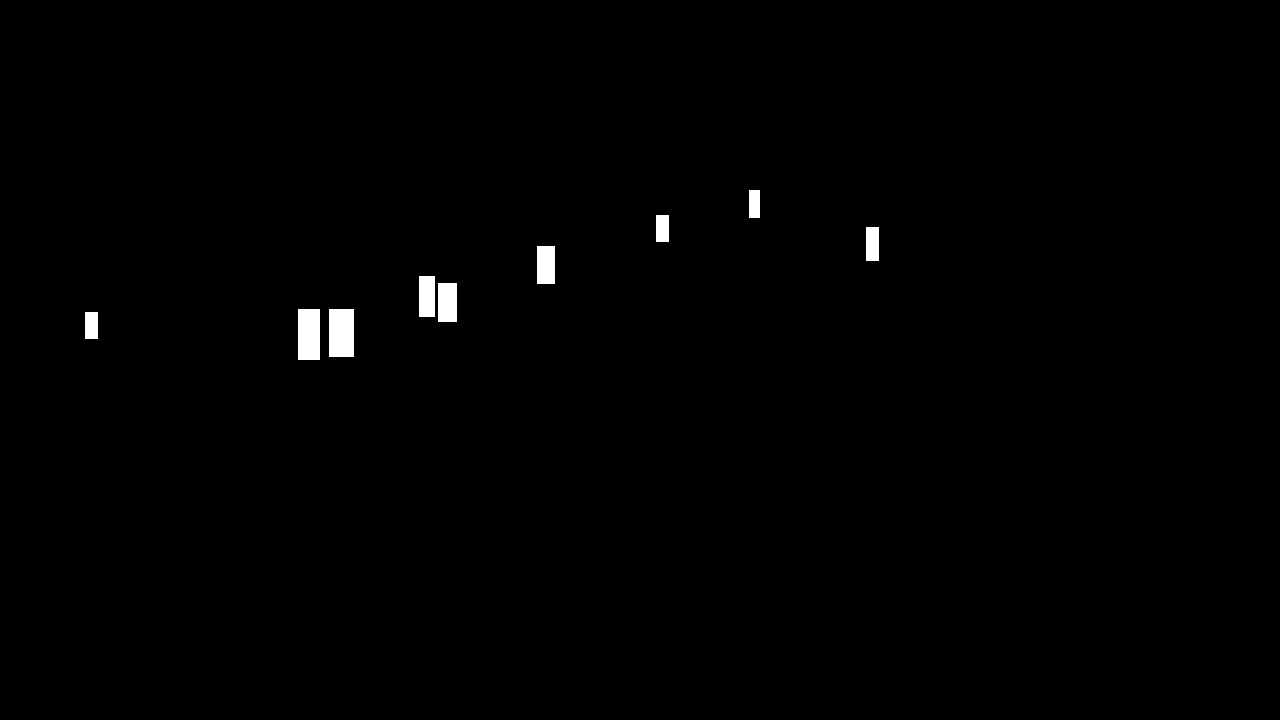
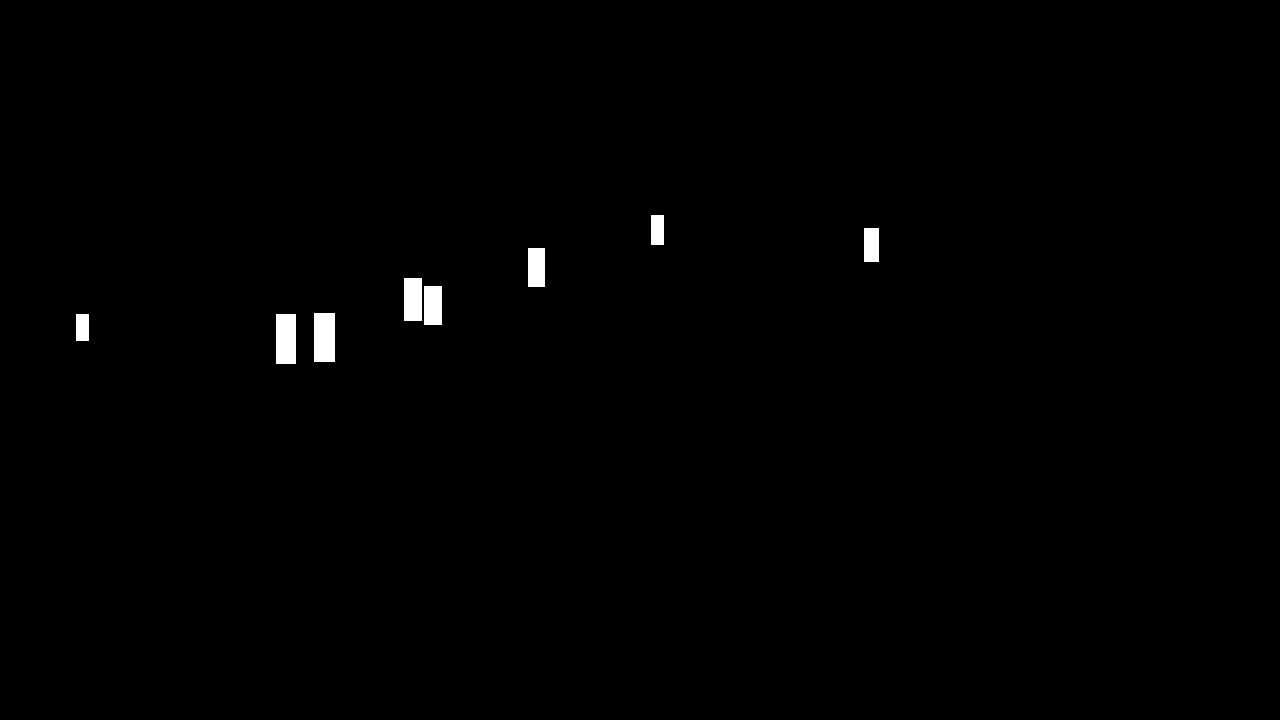
(update)crowd contours to people contours

diff --git a/optflow.py b/optflow.py
@@ -38,49 +38,39 @@ class Optflow:
             return True
         return False
     # O({crowd數}* {crowd大小}* 100})。回傳每個人群的周圍feature
-    def get_crowds_outer_features_list(self, im0, masked_img, crowd_list, box_list:dict): 
+    def get_people_outer_features_list(self, im0, masked_img, ppdata_list, box_list:dict): 
         img = copy.deepcopy(im0)
         h, w = img.shape[:2]
-        crowds_outer_features_dict = {}
+        people_outer_features_dict = {}
         # 處理每個人群
-        for crowd in crowd_list:
-            crowd_box = [int(h), int(w), 0, 0]
-            # 找出人群的box 外框
-            for ppl_data in crowd.people: 
-                pid = ppl_data.id
-                ppl_box = box_list[pid].astype(np.int32)
-                start_x, start_y, end_x, end_y = ppl_box[0], ppl_box[1], ppl_box[2], ppl_box[3]
-                if start_x < crowd_box[0]:
-                    crowd_box[0] = start_x
-                if start_y < crowd_box[1]:
-                    crowd_box[1] = start_y
-                if end_x > crowd_box[2]:
-                    crowd_box[2] = end_x
-                if end_y > crowd_box[3]:
-                    crowd_box[3] = end_y
+        for pp in ppdata_list:
+            ppl_box = [int(h), int(w), 0, 0]
+            # 找出人的box 外框
+            pid = pp.id
+            ppl_box = box_list[pid].astype(np.int32)
             
             # 外拓，以方便獲取周圍的feature
-            crowd_box += np.array([-10, -10, 10, 10])
+            ppl_box += np.array([-10, -10, 10, 10])
 
             # 取box範圍內的img和masked_img
-            crowd_box_masked_img = masked_img[crowd_box[1]:crowd_box[3], crowd_box[0]:crowd_box[2], :]
+            person_box_masked_img = masked_img[ppl_box[1]:ppl_box[3], ppl_box[0]:ppl_box[2], :]
             
             # 取box範圍內的特徵點(相對位置)
-            crowd_outer_features = self.get_features(crowd_box_masked_img)
+            person_outer_features = self.get_features(person_box_masked_img)
             
             # 相對位置->絕對位置
-            for feature in crowd_outer_features:
-                feature += [crowd_box[0], crowd_box[1]]
+            for feature in person_outer_features:
+                feature += [ppl_box[0], ppl_box[1]]
                 print("feature: ", feature)
                 img = cv2.circle(img, (feature[0], feature[1]), 10, [0,255,0], -1)
                 cv2.imwrite('crowds_all_features.jpg', img)
             
-            crowds_outer_features_dict[crowd.id] = crowd_outer_features
+            people_outer_features_dict[pp.id] = person_outer_features
 
-        cv2.imwrite('crowds_all_features.jpg', img)
+        cv2.imwrite('person"s_all_features.jpg', img)
 
         #key: crowd_id, value : features
-        return crowds_outer_features_dict
+        return people_outer_features_dict
     # 取人群的輪廓（最多x個點作為特徵)
     def get_features(self, masked_img):
         x = 5

diff --git a/track.py b/track.py
@@ -205,7 +205,7 @@ def run(
     outputs = [None] * nr_sources
     # ---------------------------------------------------------------------------------
     prev_img = None
-    prev_crowd_features = None
+    prev_features = None
     ppbox_mask = None
     n_frame = 2 # 決定一次要分析幾個frame , n_frame must>= 2
     pptrack_handler = PPTrackHandler(n_frame)
@@ -441,25 +441,22 @@ def run(
                         # print("OpticlaFlow_SINGLE_TIME:", temp)
                         if len(pptrack_handler.records) >= pptrack_handler.frame_max:
                             ppbox_mask= optflow.get_ppbox_mask(im0, box_list)  
-                            if prev_crowd_features is not None:
+                            if prev_features is not None:
                                 optflow_output_img = copy.deepcopy(im0)
-                                for id in prev_crowd_features:
-                                    crowd_features = prev_crowd_features[id]
-                                    print('crowd_feature({})\n:{}'.format(id, crowd_features))
-                                    if len(crowd_features) ==0:
-                                        continue
-                                    result0, result1 = optflow.get_opticalflow_point(prev_img, im0, crowd_features, ppbox_mask)
-                                    optflow_output_img = optflow.draw_optflow(optflow_output_img, result0, result1)
+                                for id in prev_features:
+                                    features = prev_features[id]
+                                    if len(features) !=0:
+                                        result0, result1 = optflow.get_opticalflow_point(prev_img, im0, features, ppbox_mask)
+                                        optflow_output_img = optflow.draw_optflow(optflow_output_img, result0, result1)
                                 show('optfolw_result', optflow_output_img, showout = True)
                             prev_img = im0 # 紀錄上一張圖
 
                             # 求出上一張圖的features並記錄
                             pdata = pptrack_handler.trans_data2ppdata() 
-                            crowd_list= pptrack_handler.get_crowd_list(pdata[0])
-                            print('crowd list: ', crowd_list)
-                            result = optflow.get_crowds_outer_features_list(im0, ppbox_mask, set(crowd_list), box_list)
+                            print("pdata[0]: ", pdata[0])
+                            result = optflow.get_people_outer_features_list(im0, ppbox_mask, pdata[0], box_list)
                             # 紀錄上一組features
-                            prev_crowd_features = result
+                            prev_features = result
                         time.sleep(1)
                 print("TOTAL HEATMAP TIME:", total_heatmap_time)
                 print("TOTAL ARROW TIME:", total_arrow_time)
